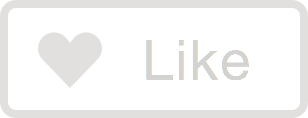
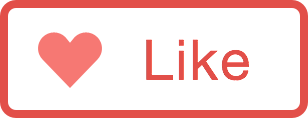
new assets and colors for high contrast stream

Changed region(s): [[0.0, 0.0, 1.0, 1.0], [0.4675, 0.3305, 0.8182, 0.6864], [0.1169, 0.2542, 0.3506, 0.7373]]

diff --git a/Clipster/ClipCell.m b/Clipster/ClipCell.m
@@ -139,7 +139,7 @@ static CGFloat lineHeight = 24.f;
     [self.card setClipsToBounds:YES];
     self.card.layer.cornerRadius = 5.0;
     
-    self.card.layer.borderColor = [UIColor colorWithRed:0.0 green:0.0 blue:0.0 alpha:0.28].CGColor;
+    self.card.layer.borderColor = [UIColor colorWithRed:0.0 green:0.0 blue:0.0 alpha:0.5].CGColor;
     self.card.layer.borderWidth = 1;
 }
 
